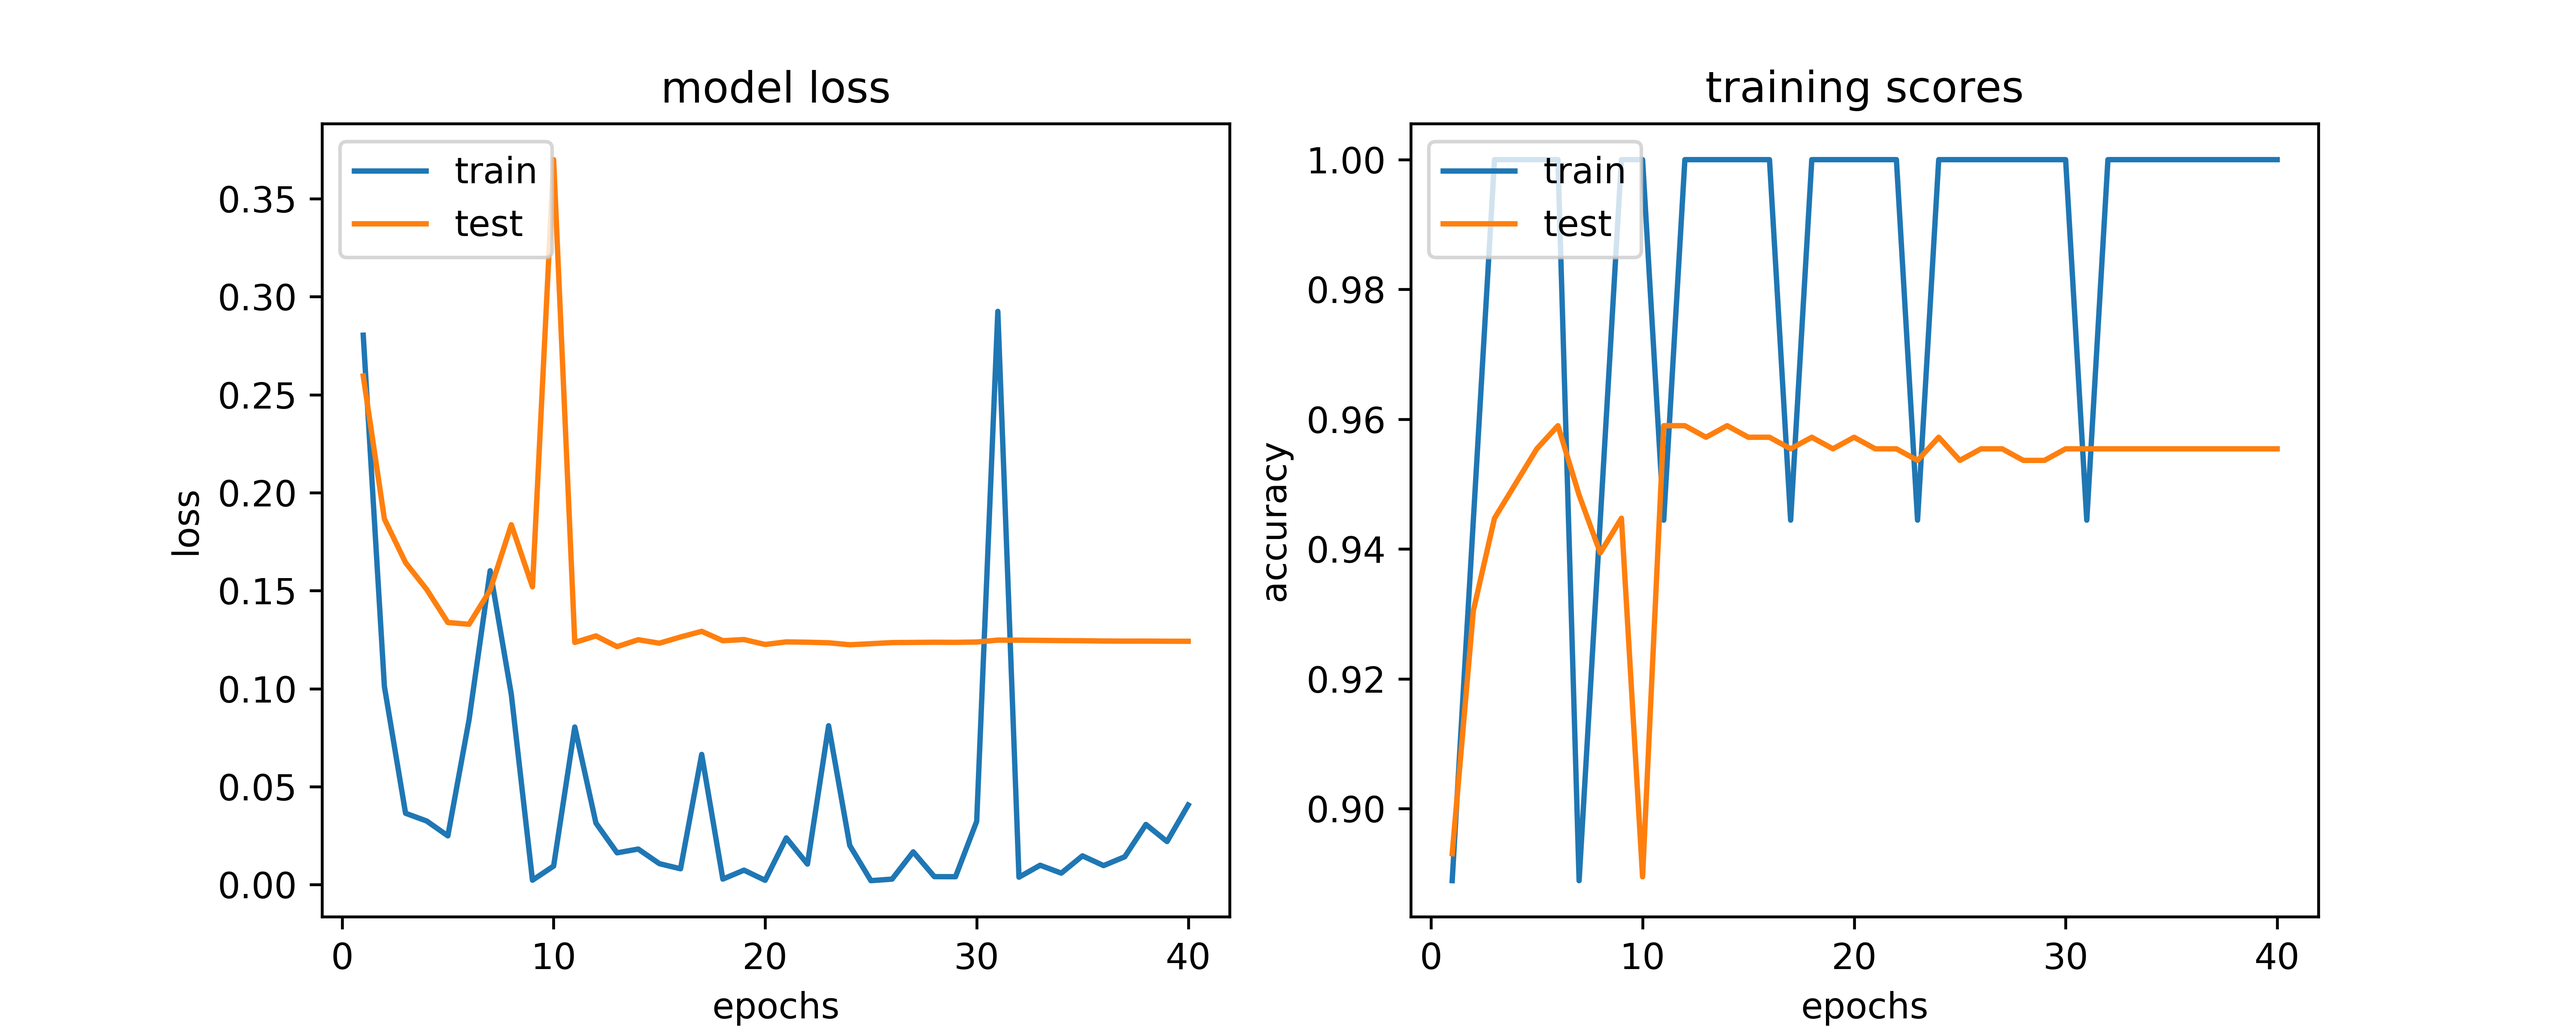
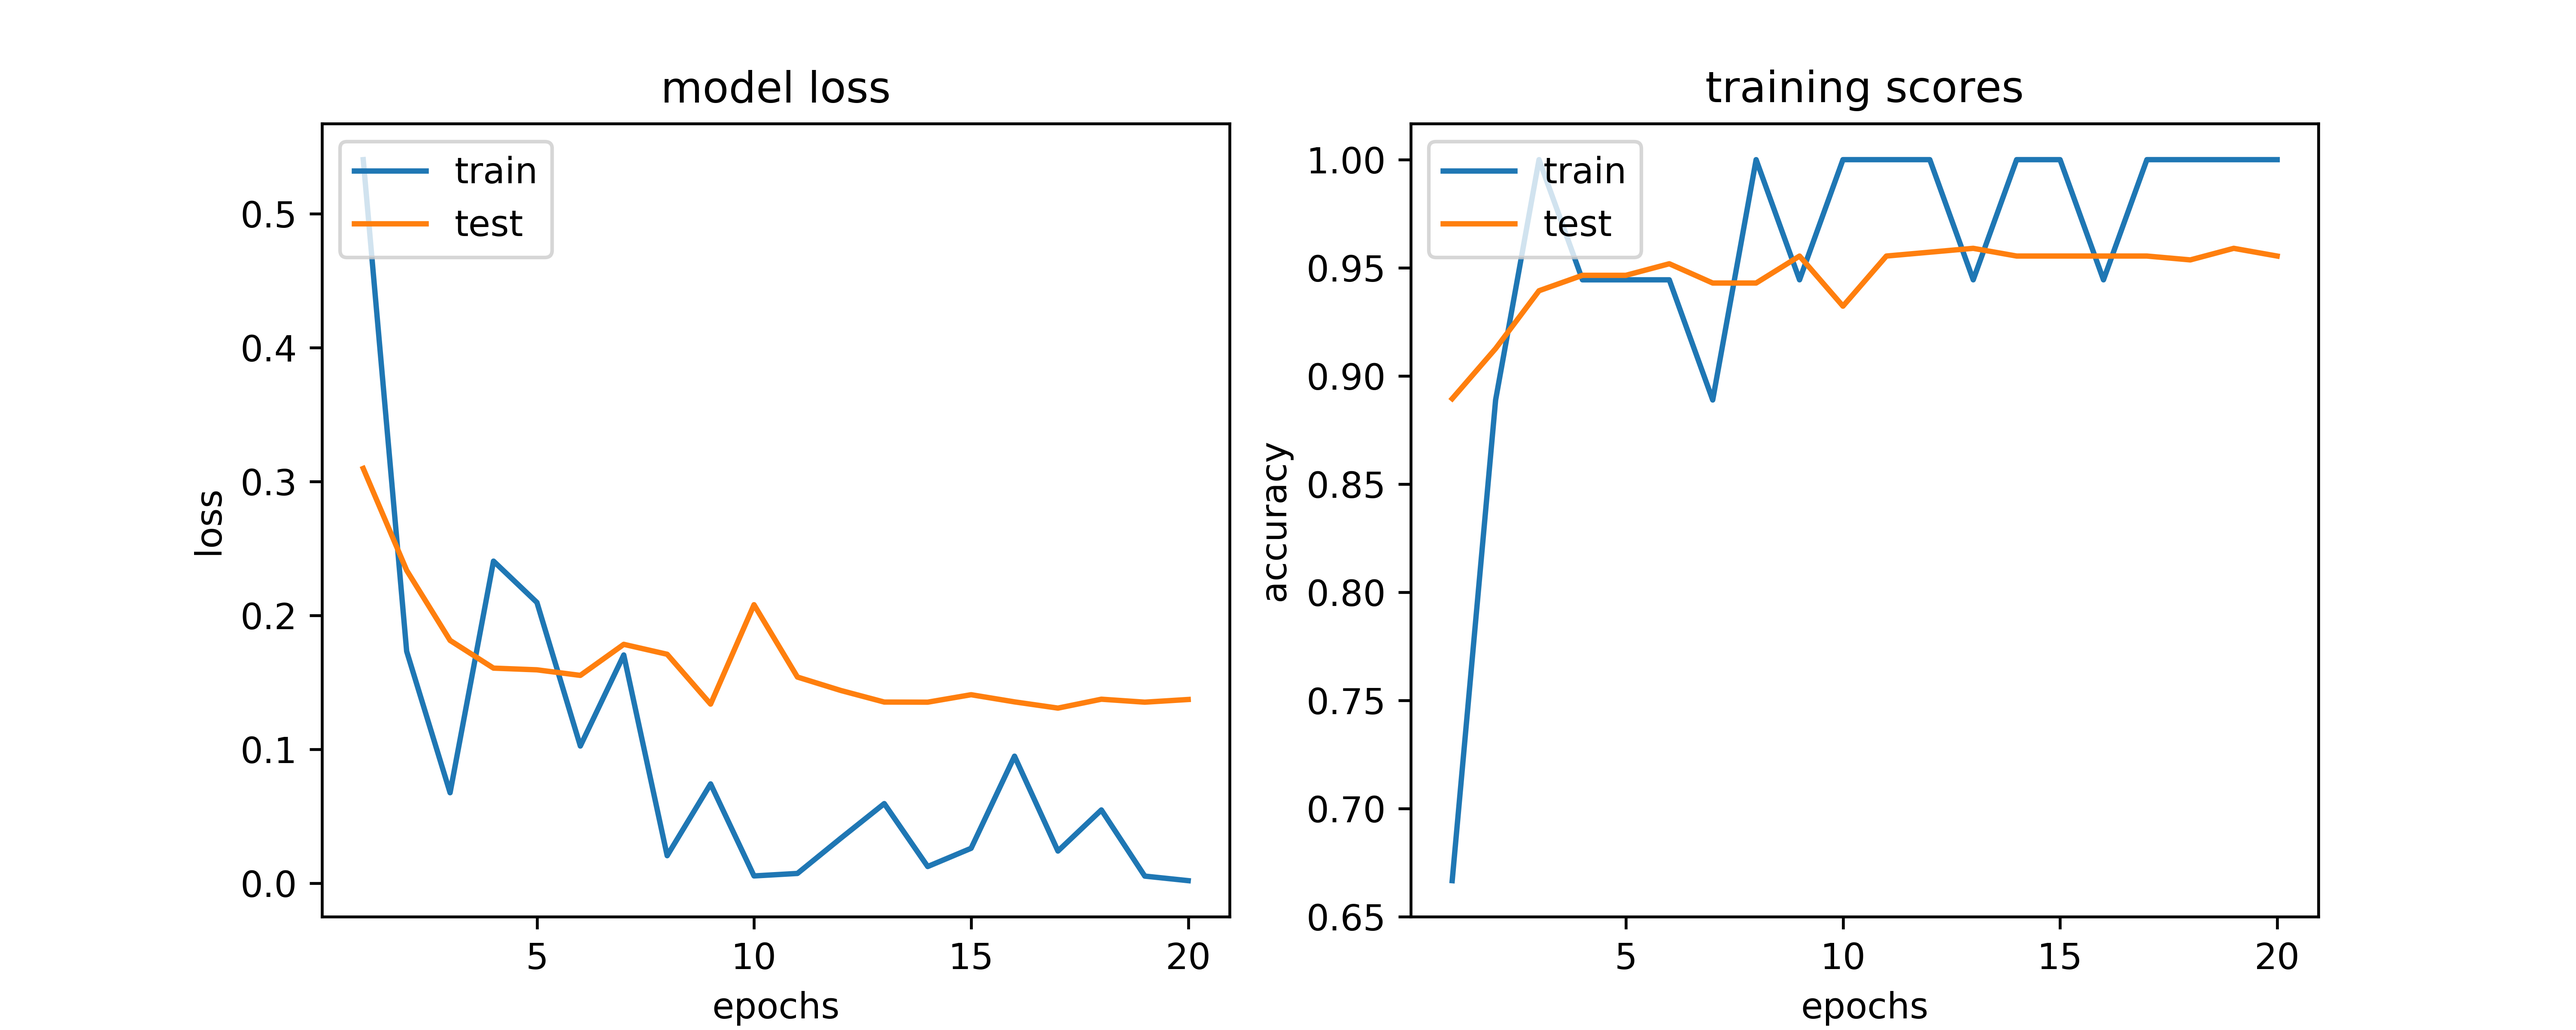
C3D model frozen and annotation scripts added

diff --git a/c3d/feature_extractor.py b/c3d/feature_extractor.py
@@ -1,4 +1,5 @@
 import os
+import cv2
 import PIL
 import numpy as np
 
@@ -9,11 +10,14 @@ from keras.utils.data_utils import get_file
 from c3d import C3D
 
 C3D_MEAN_PATH = 'https://github.com/adamcasson/c3d/releases/download/v0.1/c3d_mean.npy'
+X_CROP, Y_CROP = 350, 30
 
 class FeatureExtractor():
-	"""docstring for FeatureExtractor"""
 	
 	def __init__(self, weights_path):
+		"""
+		Initialize C3D model
+		"""
 
 		c3d_model = C3D(weights_path)
 		layer_name = 'fc6'
@@ -25,23 +29,28 @@ class FeatureExtractor():
 		"""
 		return self.model.predict(clip)[0]
 
+	def preprocess_clip_stream(self, frames):
+		"""
+		Process clips from cv2.VideoCapture()
+		"""
+		new_frames = []
+		for f in frames:
+			h, w, _ = f.shape
+			## Crop the frame
+			cropped_frame = f[Y_CROP:h-Y_CROP, X_CROP:w-X_CROP]
+
+			## Downsample by a factor of 4
+			downsampled_frame = cv2.resize(cropped_frame, (0,0), fx=0.25, fy=0.25) 
+
+			## Convert to PIL Image
+			new_frames.append(Image.fromarray(cv2.cvtColor(downsampled_frame, cv2.COLOR_BGR2RGB)))
+		return self.preprocess_clip(new_frames)
+
 	@staticmethod
 	def preprocess_clip(frames):
-		"""Resize and subtract mean from clip input
-
-		Keyword arguments:
-		clip -- clip frames to preprocess. Expected shape
-			(frames, rows, columns, channels). If the input has more than 16 frames
-			then only 16 evenly samples frames will be selected to process.
-
-		Returns:
-		A numpy array.
-
 		"""
-		# clip = np.array(clip)
-		# ## Redundant, remove later
-		# intervals = np.ceil(np.linspace(0, clip.shape[0] - 1, 16)).astype(int)
-		# frames = clip[intervals]
+		Resize and subtract mean from clip input
+		"""
 
 		# Reshape to 128x171
 		reshape_frames = np.zeros((16, 128, 171, 3))
@@ -58,8 +67,10 @@ class FeatureExtractor():
 		# Subtract mean
 		mean = np.load(mean_path)
 		reshape_frames -= mean
+		
 		# Crop to 112x112
 		reshape_frames = reshape_frames[:, 8:120, 30:142, :]
+		
 		# Add extra dimension for samples
 		reshape_frames = np.expand_dims(reshape_frames, axis=0)
 
@@ -67,9 +78,9 @@ class FeatureExtractor():
 
 	@staticmethod
 	def load_clip(clip_path):
-		# ## Redundant, remove later
-		# intervals = np.ceil(np.linspace(0, clip.shape[0] - 1, 16)).astype(int)
-		# frames = clip[intervals]
+		"""
+		Given a path to a clip folder, read in all the frames in the clip using PIL
+		"""
 		frames = []
 		for i in range(1,61):
 			image = Image.open(os.path.join(clip_path, '%d.jpg'%i))
@@ -77,6 +88,9 @@ class FeatureExtractor():
 		return frames
 
 	def load_and_extract(self, clip_path):
+		"""
+		Extract C3D features for a given clip using the clip folder
+		"""
 		clip = self.load_clip(clip_path)
 		processed_clip = self.preprocess_clip(clip)
 		return self.extract(processed_clip)

diff --git a/c3d/annotate-folder.py b/c3d/annotate-folder.py
@@ -1,0 +1,63 @@
+import os
+import cv2
+import torch
+
+from model import BinaryClassifier
+from c3d_detector import C3D_detector
+from feature_extractor import FeatureExtractor
+
+## Load C3D feature extractor
+extractor = FeatureExtractor('c3d_sports1m.h5')
+
+## Load Binary Classifier
+classifier = BinaryClassifier()
+detector = C3D_detector(classifier, checkpoint='checkpoints/model_epoch19.pth')
+
+## Obtain list of videos
+BASE_DIR = '../data/videos/'
+video_list = os.listdir(BASE_DIR)
+print("Processing %d videos"%len(video_list))
+
+for video_p in video_list:
+	print(video_p)
+
+	## Setup reading from video stream
+	video_path = os.path.join(BASE_DIR, video_p)
+	video_stream = cv2.VideoCapture(video_path)
+
+	## Setup output video
+	fourcc = cv2.VideoWriter_fourcc(*'mp4v')
+	video_name = video_path.split('/')[-1].split('.')[0]
+	out = cv2.VideoWriter(video_name+'-c3d.mp4', fourcc, 30, (1920, 1080))
+
+	frame_id, frame_buffer = 0, []
+	with torch.no_grad():
+		while True:
+			ret, frame = video_stream.read()
+			if frame is None: break
+			height, width, _ = frame.shape
+			frame_id+=1
+
+			## Buffer to annotate the original video
+			frame_buffer.append(frame)
+
+			## Collect and predict action for 60 frames
+			if len(frame_buffer) == 60:				
+				processed_frames = extractor.preprocess_clip_stream(frame_buffer)
+				prediction, score = detector.detect(extractor.extract(processed_frames))
+
+				## Annotate 60 frames and write it out to the output file
+				for f in frame_buffer:
+					cv2.putText(f,"%s: %f"%(prediction, score),(30,50),cv2.FONT_HERSHEY_SIMPLEX,1,(255,255,0),2,cv2.LINE_AA)
+					out.write(f)
+
+				## Reset the buffer
+				frame_buffer = []
+
+			## If the 'q' key is pressed, break from the loop
+			key = cv2.waitKey(1) & 0xFF
+			if key == ord("q"):
+				break
+
+	out.release()
+	cv2.destroyAllWindows()

diff --git a/c3d/train.py b/c3d/train.py
@@ -13,7 +13,7 @@ import matplotlib
 matplotlib.use('Agg')
 import matplotlib.pyplot as plt
 
-from sklearn.metrics import accuracy_score
+from sklearn.metrics import accuracy_score, precision_recall_curve
 from sklearn.model_selection import train_test_split
 from sklearn.preprocessing import OneHotEncoder, LabelEncoder
 
@@ -26,7 +26,7 @@ CHECKPOINT_DIR = "checkpoints/"
 create_directory(CHECKPOINT_DIR)
 
 # training parameters
-epochs = 40     # training epochs
+epochs = 20     # training epochs
 batch_size = 128
 LEARNING_RATE = 1e-3
 log_interval = 1   # interval for displaying training info
@@ -101,7 +101,21 @@ def validation(model, device, optimizer, test_loader):
 	# compute accuracy
 	all_y = torch.stack(all_y, dim=0)
 	all_y_pred = torch.stack(all_y_pred, dim=0)
-	test_score = accuracy_score(all_y.cpu().data.squeeze().numpy(), all_y_pred.cpu().data.squeeze().numpy())
+	y_true, y_pred = all_y.cpu().data.squeeze().numpy(), all_y_pred.cpu().data.squeeze().numpy()
+	test_score = accuracy_score(y_true, y_pred)
+
+	## Plot precision recall
+	precision, recall, thresholds = precision_recall_curve(y_true, y_pred)
+	fig, ax=plt.subplots()
+	ax.step(recall, precision,color='r',alpha=0.99,where="post")
+	ax.fill_between(recall, precision, alpha=0.2, color='b', step="post")
+	plt.xlabel("Recall")
+	plt.ylabel("Precision")
+	plt.ylim([0.0, 1.05])
+	plt.xlim([0.0, 1.0])
+	# plt.title("2-class Precision-Recall curve: AP={0:0.2f}".format(average_precision))
+	plt.savefig('pr.png', dpi=600)
+	plt.close(fig)
 
 	# show information
 	print('\nTest set ({:d} samples): Average loss: {:.4f}, Accuracy: {:.2f}%\n'.format(len(all_y), test_loss, 100* test_score))

diff --git a/c3d/model.py b/c3d/model.py
@@ -1,17 +1,18 @@
+"""
+Binary Classifier on top of C3D features to distinguish between 'explore' and 'investigate'
+"""
+
+import torch
 import torch.nn as nn
 
-
 class BinaryClassifier(nn.Module):
-	def __init__(self):
+	def __init__(self, checkpoint=None):
 		super(BinaryClassifier, self).__init__()
 		self.fc1 = nn.Linear(4096, 1024)
 		self.fc2 = nn.Linear(1024, 256)
 		self.fc3 = nn.Linear(256, 2)
 		self.relu = nn.ReLU()
 						   
-	def get_weights(self):
-		return self.weight
-	
 	def forward(self,x):
 		out = self.fc1(x)
 		out = self.relu(out)
@@ -19,4 +20,3 @@ class BinaryClassifier(nn.Module):
 		out = self.relu(out)
 		out = self.fc3(out)
 		return out
-

diff --git a/c3d/c3d_detector.py b/c3d/c3d_detector.py
@@ -1,0 +1,24 @@
+import torch
+import torch.nn.functional as F
+
+class C3D_detector():
+
+	def __init__(self, model, checkpoint):
+		"""
+		Load classifier from checkpoint
+		"""
+		model.load_state_dict(torch.load(checkpoint))
+		self.model = model
+		self.model.eval()
+
+		self.action_names = ['explore', 'investigate']
+
+	def detect(self, c3d_feature):
+		"""
+		Given C3D feature, detect action
+		"""
+		out = self.model(torch.from_numpy(c3d_feature))
+
+		score, y_pred = F.softmax(out).max(dim=0)
+		
+		return self.action_names[y_pred], float(score)

diff --git a/c3d/utils.py b/c3d/utils.py
@@ -6,7 +6,7 @@ from tqdm import tqdm
 def create_directory(dir_name):
     try: 
         os.stat(dir_name)
-    except:
+    except: 
         os.mkdir(dir_name)
 
 ## ------------------- label conversion tools ------------------ ##
